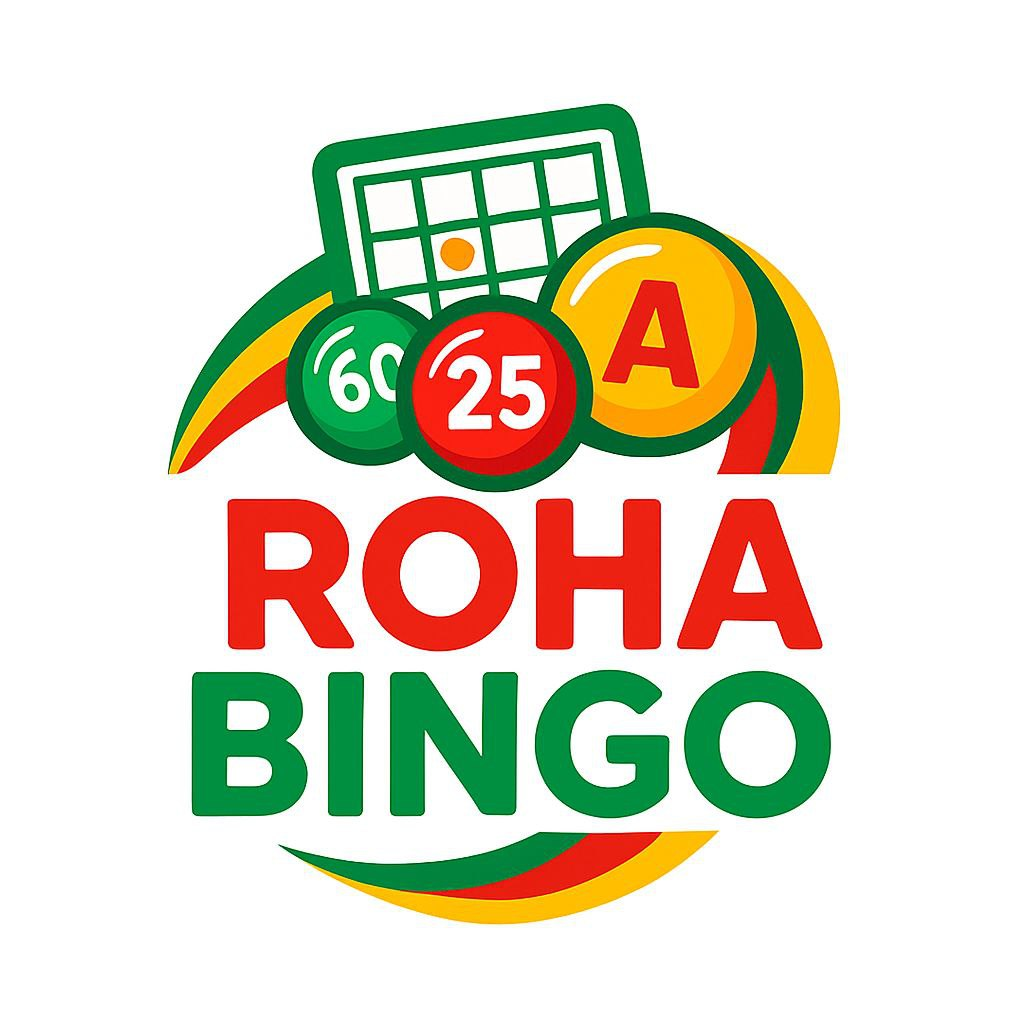
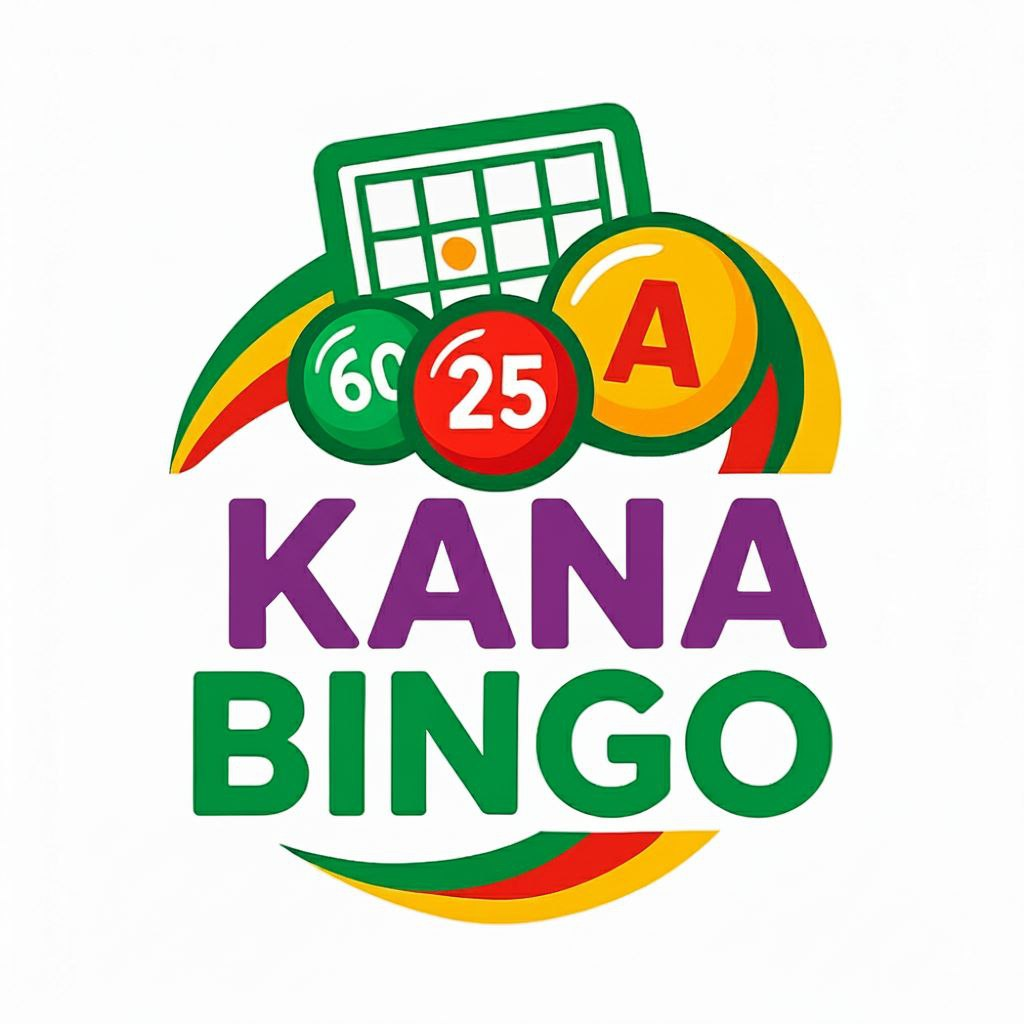
fix:the display ui

diff --git a/templates/game.html b/templates/game.html
@@ -147,11 +147,14 @@ document.getElementById('stat-stake').textContent = STAKE;
 // Audio control state
 let audioOn = (localStorage.getItem('audioOn') ?? 'true') !== 'false';
 let autoPickOn = (localStorage.getItem('autoPickOn') ?? 'false') === 'true';
+let autoClaimOn = false;
 let tickTimer = null; // drives exact UI updates when audio is OFF
 const callAudio = document.getElementById('call-audio');
 let lastAudioCall = null; // last number we started playing
 let audioQueue = [];
 let audioPlaying = false;
+// When true, stop any new audio and queue processing (set on winner for all clients)
+window.suppressCalls = false;
 const CALL_INTERVAL_MS = 3000; // enforce ~3s cadence between call starts
 const POST_END_GAP_MS = 300;   // small gap after audio ends
 const MAX_AUDIO_MS = 3000;     // hard cap audio playback to 3s
@@ -194,10 +197,15 @@ function updateBoardCurrent(){
     const curStr = String(data.current_call);
     if(!called.map(String).includes(curStr)) called.push(data.current_call);
   }
-  const currentForBoard = (audioOn && lastAudioCall != null) ? lastAudioCall : data.current_call;
+  const currentForBoard = data.current_call;
   markBoard(called, currentForBoard);
 }
 function playNextFromQueue(){
+  if(window.suppressCalls){
+    try{ callAudio.pause(); }catch(_){ }
+    audioQueue = [];
+    return;
+  }
   if(audioPlaying) return;
   if(!audioOn) { audioQueue = []; return; }
   const next = audioQueue.shift();
@@ -217,10 +225,7 @@ function playNextFromQueue(){
   const startAudio = ()=>{
     audioPlaying = true;
     lastAudioCall = num;
-    // Update the UI to the number we're about to speak
-    setCurrentBall(num);
-    // Update board current to match voice timing
-    updateBoardCurrent();
+    // Do not drive UI by audio; UI follows server timeline via refresh/tick
     autoPickIfOn(num);
     callAudio.src = `/static/audio/${num}.mp3`;
     callAudio.currentTime = 0;
@@ -261,43 +266,39 @@ function scheduleTickRefresh(){
   tickTimer = setTimeout(()=>{ refresh(); scheduleTickRefresh(); }, wait);
 }
 function enqueueCallsFromRecent(recent, current){
-  if(!Array.isArray(recent)) recent = [];
+  if(window.suppressCalls){ audioQueue = []; return; }
   const cur = Number(current);
-  const recentStr = recent.map(x=>String(x));
-  const lastStr = lastAudioCall == null ? null : String(lastAudioCall);
-  let toAdd = [];
-  if(lastStr && recentStr.includes(lastStr)){
-    const idx = recentStr.lastIndexOf(lastStr);
-    if(idx < recentStr.length - 1){
-      toAdd = recentStr.slice(idx+1);
-    }
-  } else if(cur){
-    toAdd = [String(cur)];
+  if(!Number.isFinite(cur) || cur < 1 || cur > 75){ return; }
+  const curStr = String(cur);
+  // If we're already playing this number or have just spoken it, don't enqueue again
+  if(audioPlaying || (lastAudioCall != null && String(lastAudioCall) === curStr)){
+    audioQueue = [];
+    return;
   }
-  // de-duplicate against items already queued
-  toAdd.forEach(n=>{ if(!audioQueue.includes(n)){ audioQueue.push(n); } });
+  // Only speak the current call: clear any backlog and enqueue just the current
+  audioQueue = [curStr];
   playNextFromQueue();
 }
 document.getElementById('audio-toggle')?.addEventListener('click', ()=>{
+  if(window.winnerShown || window.suppressCalls){
+    // Ignore attempts to re-enable audio after winner
+    audioOn = false; localStorage.setItem('audioOn','false'); renderAudio();
+    return;
+  }
   audioOn = !audioOn;
   localStorage.setItem('audioOn', String(audioOn));
   if(!audioOn){
     stopCallAudio(); // also resets lastAudioCall
-    // When audio is OFF, drive UI by exact tick boundaries
-    try{ if(tickTimer){ clearTimeout(tickTimer); tickTimer = null; } }catch(_){ }
-    scheduleTickRefresh();
+    // UI is driven by server tick regardless of audio state
   }else{
-    lastAudioCall = null; // wait for new audio start to set green
-    // Clear tick scheduler when audio resumes to avoid duplicate cadence
-    try{ if(tickTimer){ clearTimeout(tickTimer); tickTimer = null; } }catch(_){ }
+    lastAudioCall = null;
     // Immediate refresh to rebuild audio queue from server anchors
     refresh();
     playNextFromQueue();
   }
   renderAudio();
-  // Re-render board current only when audio resumes; when muted, let scheduler drive updates
-  if(audioOn){ updateBoardCurrent(); }
-  if(!audioOn){ /* scheduler already set above; no immediate UI jump */ }
+  // Re-render board current follows server; no audio-timed UI
+  updateBoardCurrent();
 });
 renderAudio();
 
@@ -445,7 +446,7 @@ async function refresh(){
   if(wrap){
     wrap.innerHTML='';
     const base = Array.isArray(data.recent_calls) ? data.recent_calls.slice() : [];
-    const anchor = (audioOn && lastAudioCall != null) ? lastAudioCall : data.current_call;
+    const anchor = data.current_call;
     let recent = [];
     if(Array.isArray(data.called_numbers) && anchor != null){
       const idxMap = {};
@@ -465,7 +466,13 @@ async function refresh(){
     } else {
       recent = base.slice(-4);
     }
-    recent.forEach(n=>wrap.appendChild(makeBall(n,'sm')));
+    // Ensure we never include the current (anchor) number in the recent display
+    if(anchor != null){
+      const aStr = String(anchor);
+      recent = recent.filter(n => String(n) !== aStr);
+    }
+    // Render newest on the left, older to the right
+    recent.slice().reverse().forEach(n=>wrap.appendChild(makeBall(n,'sm')));
   }
   let called = Array.isArray(data.called_numbers) ? data.called_numbers.slice() : (data.recent_calls||[]);
   if(data.current_call != null){
@@ -475,11 +482,18 @@ async function refresh(){
   // Keep a set of called numbers for winner coloring inference
   window.lastCalledSet = new Set(called.map(v=>String(v)));
   setText('stat-call', (typeof data.call_count === 'number') ? data.call_count : called.length);
-  // Use lastAudioCall for the green current dot so the board waits for audio/UI
-  const currentForBoard = (audioOn && lastAudioCall != null) ? lastAudioCall : data.current_call;
+  // Use server current for the green current dot so all clients stay in sync
+  const currentForBoard = data.current_call;
   markBoard(called, currentForBoard);
-  // If audio is OFF or hasn't started yet, keep the big current ball in sync with server
-  if(!audioOn && data.current_call){ setCurrentBall(data.current_call); }
+  // Always keep the big current ball in sync with server
+  if(data.current_call){ setCurrentBall(data.current_call); }
+  // Auto-pick only the current call (and next ones), do not retro-pick past calls
+  try{
+    if(autoPickOn){
+      const anchorNow = (audioOn && lastAudioCall != null) ? lastAudioCall : data.current_call;
+      if(anchorNow != null) autoPickIfOn(anchorNow);
+    }
+  }catch(_){ /* ignore */ }
   const btn = document.getElementById('btn-bingo');
   // Store my_index for fallback modal rendering and load picks when index changes
   const prevIndex = window.lastMyIndex;
@@ -493,7 +507,7 @@ async function refresh(){
     if(btn){ btn.disabled = false; btn.title = ''; btn.style.opacity = '1'; }
     // Auto-claim when Auto is ON and a winning pattern is satisfied
     try{
-      if(autoPickOn && !window.autoClaimedForGame){
+      if(autoPickOn && autoClaimOn && !window.autoClaimedForGame){
         const winInfo = inferWinPatternFromCalled(data.my_card);
         if(winInfo){
           window.autoClaimedForGame = true;
@@ -537,6 +551,8 @@ document.getElementById('btn-bingo').addEventListener('click', async ()=>{
 
 buildBoard();
 refresh();
+// Keep server-aligned tick running in all cases
+scheduleTickRefresh();
 setInterval(refresh, 2000);
 
 // WebSocket realtime (Channels)
@@ -547,6 +563,21 @@ function wsConnect(){ try{ ws = new WebSocket(wsUrl()); }catch(_){ return; }
   ws.onmessage = (ev)=>{
     let msg; try{ msg = JSON.parse(ev.data); }catch(_){ return; }
     if(msg.type === 'winner'){
+      // Stop audio and further queueing globally when a winner is announced
+      try{
+        window.suppressCalls = true;
+        audioQueue = [];
+        // Hard stop audio now and prevent any further playback
+        try{ callAudio.onended = null; callAudio.onerror = null; }catch(_){ }
+        stopCallAudio();
+        try{ callAudio.muted = true; }catch(_){ }
+        try{ callAudio.removeAttribute('src'); callAudio.load(); }catch(_){ }
+        try{ document.querySelectorAll('audio').forEach(a=>{ try{ a.onended=null; a.onerror=null; }catch(_){}; try{ a.pause(); }catch(_){}; try{ a.currentTime = 0; }catch(_){}; try{ a.muted = true; }catch(_){}; }); }catch(_){ }
+        audioPlaying = false;
+        lastAudioCall = null;
+        // Turn off audio switch to avoid restarts
+        audioOn = false; localStorage.setItem('audioOn','false'); renderAudio();
+      }catch(_){ /* ignore */ }
       // Pass details (pattern, row/col) and winner picks for yellow highlight
       showWinner(msg.winner, msg.index, { pattern: msg.pattern, row: msg.row, col: msg.col, picks: msg.picks });
     } else if(msg.type === 'restarted'){
@@ -656,6 +687,19 @@ function colorWinCard(details){
   }
 }
 function showWinner(name, index, details){
+  // Immediately suppress and hard-stop any audio on showing winner, regardless of caller
+  try{
+    window.suppressCalls = true;
+    audioQueue = [];
+    try{ callAudio.onended = null; callAudio.onerror = null; }catch(_){ }
+    stopCallAudio();
+    try{ callAudio.muted = true; }catch(_){ }
+    try{ callAudio.removeAttribute('src'); callAudio.load(); }catch(_){ }
+    try{ callAudio.volume = 0; }catch(_){ }
+    audioPlaying = false;
+    lastAudioCall = null;
+    audioOn = false; localStorage.setItem('audioOn','false'); renderAudio();
+  }catch(_){ /* ignore */ }
   const bd = document.getElementById('win-backdrop');
   const nm = document.getElementById('win-name');
   const idx = document.getElementById('win-index');

diff --git a/bingo/bot.py b/bingo/bot.py
@@ -70,10 +70,10 @@ async def start(update: Update, context: ContextTypes.DEFAULT_TYPE) -> None:
         pass
 
     if img_url:
-        await context.bot.send_photo(chat_id=chat_id, photo=img_url,caption="🎉 Welcome To roha Bingo! 🎉")
+        await context.bot.send_photo(chat_id=chat_id, photo=img_url,caption="🎉 Welcome To kana Bingo! 🎉")
     elif img_path and os.path.exists(img_path):
         with open(img_path, "rb") as f:
-            await context.bot.send_photo(chat_id=chat_id, photo=f,caption="🎉 Welcome To roha Bingo! 🎉")
+            await context.bot.send_photo(chat_id=chat_id, photo=f,caption="🎉 Welcome To kana Bingo! 🎉")
 
     keyboard = InlineKeyboardMarkup(BUTTON_ROWS)
     await context.bot.send_message(chat_id=chat_id, text="🕹 Every Square Counts – Grab Your roha, Join the Game, and Let the Fun Begin!", reply_markup=keyboard,parse_mode=ParseMode.HTML)
@@ -156,7 +156,7 @@ async def contact_cmd(update: Update, context: ContextTypes.DEFAULT_TYPE) -> Non
 
 async def instruction_cmd(update: Update, context: ContextTypes.DEFAULT_TYPE) -> None:
     await update.effective_message.reply_text(
-        "እንኮን ወደ ሮሃ ቢንጎ መጡ\n\n"
+        "እንኮን ወደ ቃና ቢንጎ መጡ\n\n"
         "1 ለመጫወት ወደቦቱ ሲገቡ register የሚለውን በመንካት ስልክ ቁጥሮትን ያጋሩ\n\n"
         "2 menu ውስጥ በመግባት deposit fund የሚለውን በመንካት በሚፈልጉት የባንክ አካውንት ገንዘብ ገቢ ያድርጉ \n\n"
         "3 menu ውስጥ በመግባት start play የሚለውን በመንካት መወራረድ የሚፈልጉበትን የብር መጠን ይምረጡ።\n\n\n"
